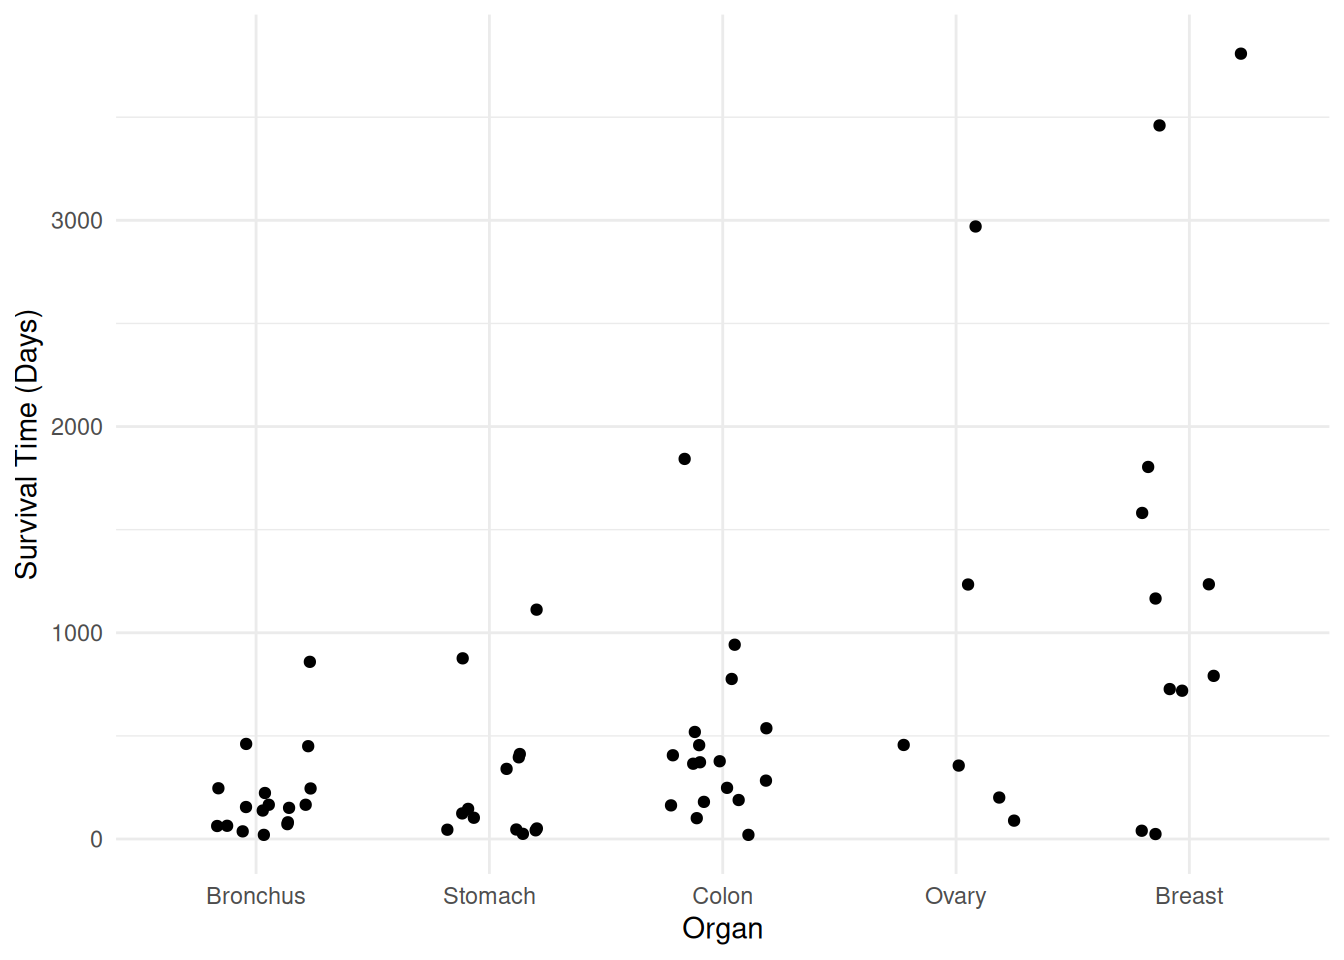
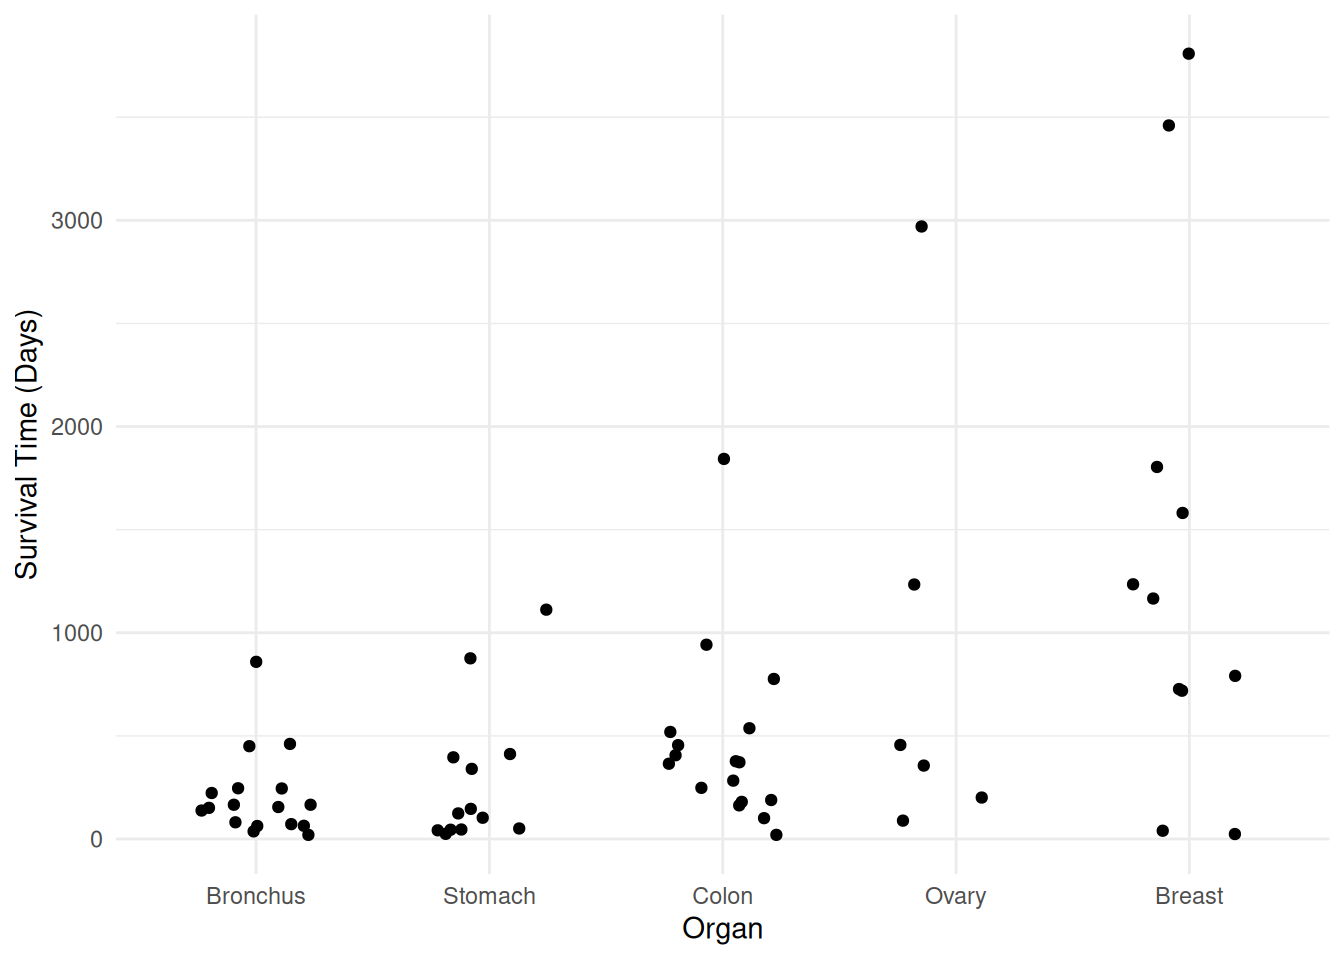
lecture 2/14 edit

diff --git a/lecture-02-14-2025.html b/lecture-02-14-2025.html
@@ -324,11 +324,11 @@ Comments on variance-stabilizing transformations.</p>
 <li><p>Depending on the situation, other transformations may exhibit
 variance-stabilizing properties. Some common transformations are <span
 class="math inline">\(\sqrt{Y_i}\)</span>, <span
-class="math inline">\(\log(Y_i)\)</span>, <span
+class="math inline">\(\log Y_i\)</span>, <span
 class="math inline">\(1/\sqrt{Y_i}\)</span> and <span
 class="math inline">\(1/Y_i\)</span> for right-skewed response
 variables, and <span class="math inline">\(n_i
-\sin^{-1}\sqrt{Y_i}\)</span> when <span
+\arcsin(\sqrt{Y_i})\)</span> when <span
 class="math inline">\(Y_i\)</span> is a proportion with a denominator of
 <span class="math inline">\(n_i\)</span>.</p></li>
 <li><p>A limitation of variance stabilizing transformations is that it
@@ -339,14 +339,11 @@ context of accelerated failure time models for survival data).</p></li>
 <li><p>It is important to note that for any <em>nonlinear</em>
 transformation that <span class="math inline">\(E[g(Y)] \neq
 g[E(Y)]\)</span> (i.e., the expected transformed response does not
-necessarily equal the transformed expected response). For example, the
-expected log of survival time does not equal the log of the expected
-survival time. So we cannot obtain inferences for the expected response
-by applying the inverse function. For example, while we have that <span
-class="math inline">\(\exp[\log(Y)] = Y\)</span>, this <strong>does
-not</strong> imply that <span
-class="math inline">\(\exp\left\{E[\log(Y)]\right\} =
-E(Y)\)</span>.</p></li>
+necessarily equal the transformed expected response). For example, <span
+class="math inline">\(E[\log Y] \neq \log E(Y)\)</span>. So we cannot
+obtain inferences for the expected response by applying the inverse of
+the transformation function. For example, <span
+class="math inline">\(\exp[E(\log Y)] \neq E(Y)\)</span>.</p></li>
 </ol>
 </div>
 <div id="weighted-least-squares" class="section level3">
@@ -468,11 +465,11 @@ class="math inline">\(\text{Var}(Z_{ij}) = \sigma^2\)</span> then <span
 class="math inline">\(\text{Var}(Y_i) = \sigma^2/n_i\)</span>. Thus the
 weights should be <span class="math display">\[
   w_i \propto \frac{1}{\sigma^2/n_i} = \frac{n_i}{\sigma^2}.
-\]</span> Since <span class="math inline">\(1/\sigma^2\)</span> is a
-constant for all observations, we can define the weights as <span
-class="math inline">\(w_i = n_i\)</span>. The weights can be specified
-in <code>lm</code> and <code>nls</code> (and other functions for
-regression) using the <code>weights</code> argument.</p>
+\]</span> Assuming <span class="math inline">\(1/\sigma^2\)</span> is a
+constant for all observations, we can define the weights of the means as
+<span class="math inline">\(w_i = n_i\)</span>. The weights can be
+specified in <code>lm</code> and <code>nls</code> (and other functions
+for regression) using the <code>weights</code> argument.</p>
 <pre class="r"><code>m.wls &lt;- nls(weight ~ case_when(
   source == &quot;none&quot; ~ gamma,
   source == &quot;a&quot; ~ alpha + (gamma - alpha) * 2^(-dose/lambdaa),
@@ -737,6 +734,14 @@ treatmentn:total treatmenty:total
           0.1155           0.1578 
 treatmentn:total treatmenty:total 
           0.1155           0.1578 </code></pre>
+<pre class="r"><code>summary(m)$coefficients</code></pre>
+<pre><code>                 Estimate Std. Error t value Pr(&gt;|t|)
+treatmentn:total   0.1056    0.04183   2.524 1.31e-02
+treatmenty:total   0.1319    0.01121  11.773 7.61e-21</code></pre>
+<pre class="r"><code>summary(m.wls)$coefficients</code></pre>
+<pre><code>                 Estimate Std. Error t value  Pr(&gt;|t|)
+treatmentn:total   0.1155    0.02887    4.00 1.189e-04
+treatmenty:total   0.1578    0.01268   12.45 2.501e-22</code></pre>
 </div>
 </div>
 <div class="footnotes footnotes-end-of-document">
